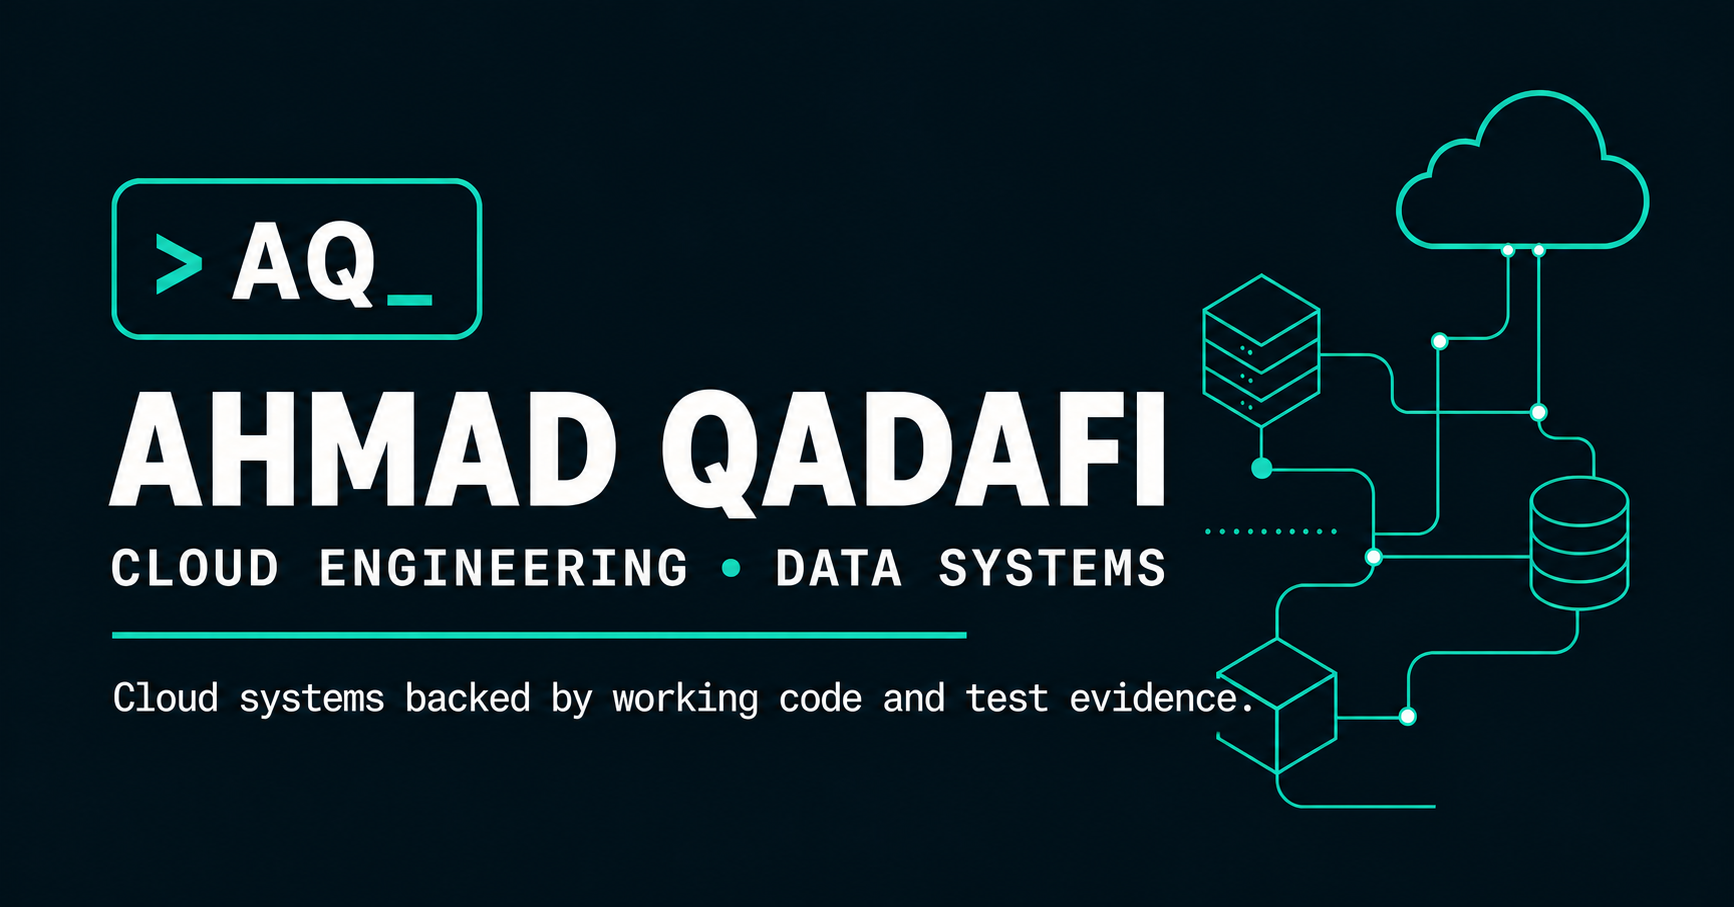
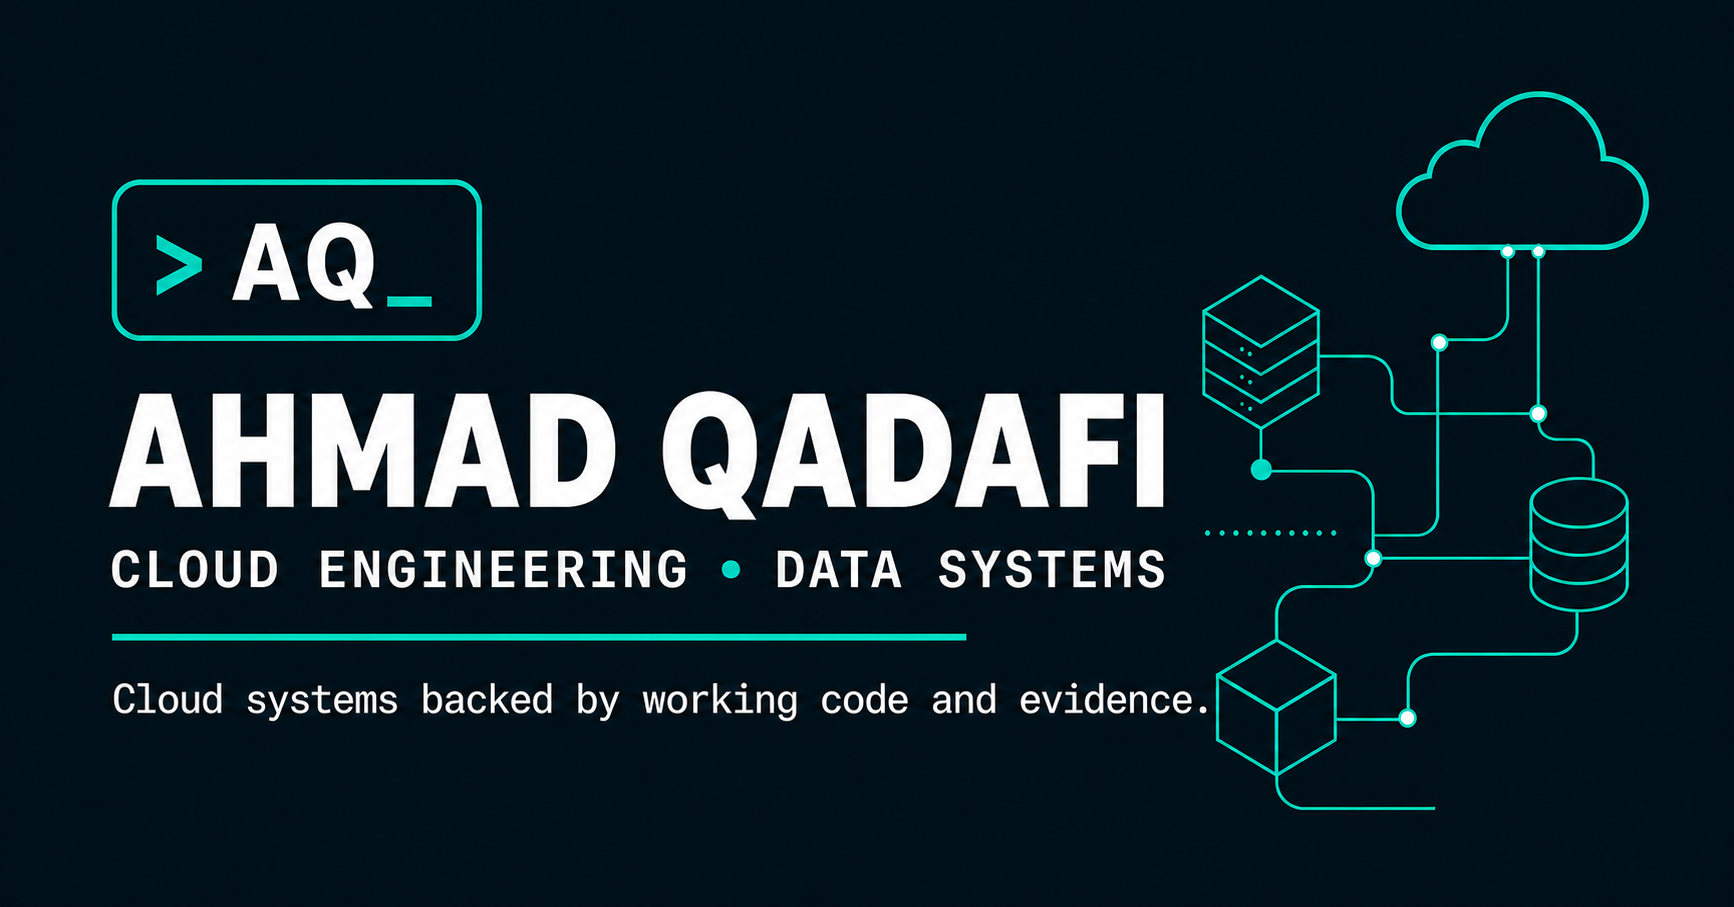
Clarify project evidence language

diff --git a/app/page.tsx b/app/page.tsx
@@ -28,7 +28,7 @@ export default function Home() {
       </section>
       <section className="proof-strip" aria-label="Selected career proof points"><div><strong>70%</strong><span>reduction in monthly reporting time through automation</span></div><div><strong>10M+</strong><span>behavioral-health and grant records managed</span></div><div><strong>2</strong><span>disciplines united: cloud engineering and data research</span></div></section>
 
-      <section className="projects section-shell" id="projects"><div className="section-heading"><div><p className="kicker">Featured cloud engineering</p><h2>Cloud systems backed by<br />working code and test evidence.</h2></div><p>Architecture decisions, Terraform source, operational documentation, and evidence that the critical controls work.</p></div><div className="project-list">{devopsProjects.slice(0, 2).map((project) => <ProjectCard project={project} key={project.title} />)}</div><a className="section-cta" href="/projects#devops">View all cloud projects <span>→</span></a></section>
+      <section className="projects section-shell" id="projects"><div className="section-heading"><div><p className="kicker">Featured cloud engineering</p><h2>Cloud systems backed by<br />working code and evidence.</h2></div><p>Architecture decisions, Terraform source, operational documentation, and evidence that the critical controls work.</p></div><div className="project-list">{devopsProjects.slice(0, 2).map((project) => <ProjectCard project={project} key={project.title} />)}</div><a className="section-cta" href="/projects#devops">View all cloud projects <span>→</span></a></section>
 
       <section className="data-feature section-shell"><div className="section-heading"><div><p className="kicker">Data &amp; research portfolio</p><h2>Analysis that changed<br />what happened next.</h2></div><p>Mixed-methods studies, statistical modeling, usability testing, and program evaluation—translated into decisions people could act on.</p></div><div className="data-preview-grid">{dataProjects.slice(0, 3).map((project) => <a href={project.href} key={project.title} className="data-preview"><span>{project.number}</span><h3>{project.title}</h3><p>{project.summary}</p>{project.metric && <div><strong>{project.metric}</strong><small>{project.metricLabel}</small></div>}<b>Read case study →</b></a>)}</div><a className="section-cta light" href="/projects#data">View all data projects <span>→</span></a></section>
 
